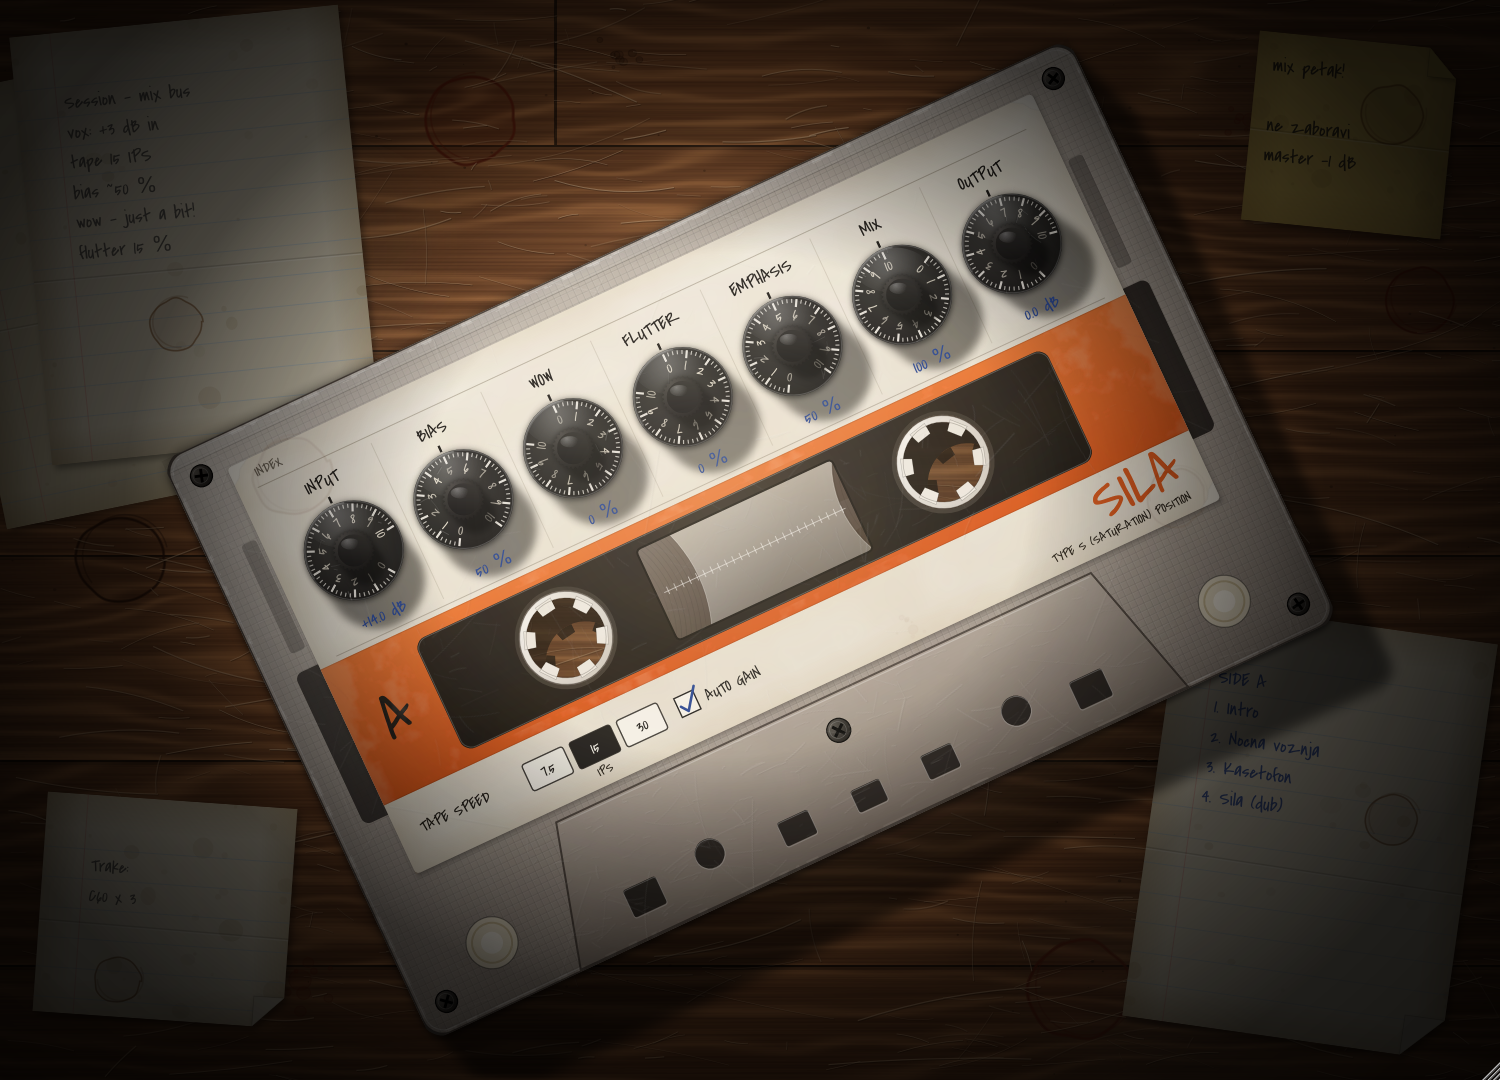
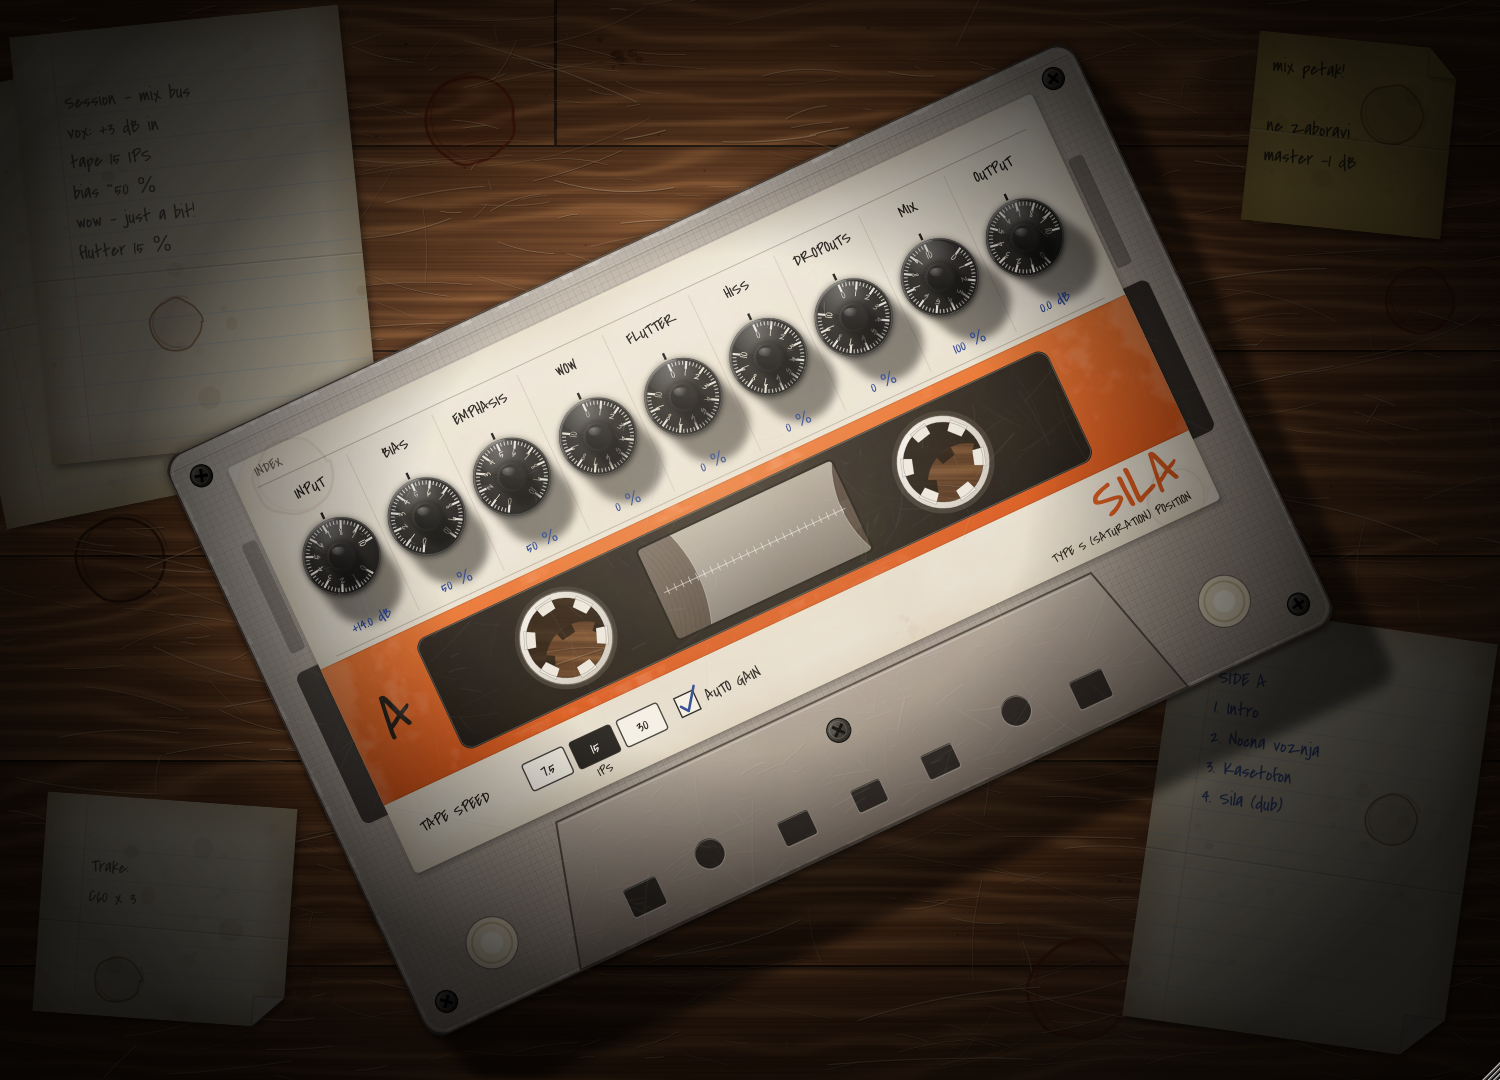
Add HISS and DROPOUTS controls
Hiss: high-passed noise rolled off with tape speed, louder on slower tape,
about -43 dBFS RMS at 100 %. Dropouts: random 20-120 ms level dips of up to
-20 dB with high-frequency loss, more frequent and deeper with the control.
Both default to 0 and leave the signal untouched when off. The index label
now holds nine dials.

Claude-Session: https://claude.ai/code/session_01Eb5cvfZpsXDM7PHUieEaR2

Changed region(s): [[0.184, 0.1528, 0.736, 0.5806], [0.184, 0.4278, 0.2147, 0.4583]]

diff --git a/Source/TapeEngine.cpp b/Source/TapeEngine.cpp
@@ -261,6 +261,8 @@ void TapeEngine::prepare (double newSampleRate, int maxBlockSize, int newNumChan
     mixAmount.reset (sampleRate, smoothing);
     wowDepth.reset (sampleRate, 0.1);
     flutterDepth.reset (sampleRate, 0.1);
+    hissAmount.reset (sampleRate, 0.05);
+    dropoutAmount.reset (sampleRate, 0.05);
     biasSmoothed.reset (sampleRate, 0.05);
     autoGainAmount.reset (sampleRate, smoothing);
 
@@ -282,6 +284,9 @@ void TapeEngine::reset()
         ch.tape.m = hysteresisRestAt (target.bias);
         ch.tape.hPrev = biasAsymmetry (target.bias);
         ch.hfLoss = 0.0;
+        ch.hissHigh = ch.hissPrev = ch.hissLow = 0.0;
+        ch.dropoutGain = ch.dropoutDepth = 1.0;
+        ch.dropoutLow = 0.0;
         std::fill (ch.transport.begin(), ch.transport.end(), 0.0f);
         std::fill (ch.dry.begin(), ch.dry.end(), 0.0f);
         ch.dryWrite = 0;
@@ -300,6 +305,9 @@ void TapeEngine::reset()
     mixAmount.setCurrentAndTargetValue (target.mix);
     wowDepth.setCurrentAndTargetValue (target.wow);
     flutterDepth.setCurrentAndTargetValue (target.flutter);
+    hissAmount.setCurrentAndTargetValue (target.hiss);
+    dropoutAmount.setCurrentAndTargetValue (target.dropouts);
+    dropoutRemaining = 0;
     biasSmoothed.setCurrentAndTargetValue (target.bias);
     autoGainAmount.setCurrentAndTargetValue (target.autoGain ? 1.0f : 0.0f);
 
@@ -323,7 +331,9 @@ void TapeEngine::setSettings (const TapeSettings& s) noexcept
     outputGain.setTargetValue (juce::Decibels::decibelsToGain (target.outputDb));
     mixAmount.setTargetValue (target.mix);
     wowDepth.setTargetValue (target.wow);
-    flutterDepth.setTargetValue (target.flutter);
+    flutterDepth.setTargetValue (juce::jlimit (0.0f, 1.0f, target.flutter));
+    hissAmount.setTargetValue (juce::jlimit (0.0f, 1.0f, s.hiss));
+    dropoutAmount.setTargetValue (juce::jlimit (0.0f, 1.0f, s.dropouts));
     biasSmoothed.setTargetValue (target.bias);
     autoGainAmount.setTargetValue (target.autoGain ? 1.0f : 0.0f);
 }
@@ -499,6 +509,16 @@ void TapeEngine::processChunk (float* const* data, int numCh, int n) noexcept
     const int driftPeriod = juce::jmax (1, (int) (sampleRate * 0.45));
     const double driftCoeff = 1.0 - std::exp (-1.0 / (0.35 * sampleRate));
 
+    // Tape hiss: white noise shaped to the bright "shhh" of tape (high-passed, rolled off
+    // with the tape speed). Slower tape is noisier. Full scale is about -42 dBFS RMS.
+    const double hissSpeedGain = currentSpeed == 0 ? 1.41 : (currentSpeed == 2 ? 0.71 : 1.0);
+    const double hissHp = std::exp (-twoPi * 300.0 / sampleRate);
+    const double hissLp = 1.0 - std::exp (-twoPi * juce::jmin (highCutFrequency (currentSpeed), sampleRate * 0.45) / sampleRate);
+    const double hissScale = 0.0079 * 1.73 * hissSpeedGain;
+
+    // Dropouts: oxide flaws briefly lift the tape off the head, the level dips and the highs go first.
+    const double dropoutFollow = 1.0 - std::exp (-1.0 / (0.006 * sampleRate));
+
     for (int i = 0; i < n; ++i)
     {
         // Transport modulation (shared by both channels: one tape, one capstan).
@@ -526,6 +546,23 @@ void TapeEngine::processChunk (float* const* data, int numCh, int n) noexcept
         const double wetMix = mixAmount.getNextValue();
         const double out = outputGain.getNextValue();
 
+        const double hissAmt = hissAmount.getNextValue();
+        const double hissLevel = hissAmt * hissAmt * hissScale;
+        const double dropAmt = dropoutAmount.getNextValue();
+
+        bool dropping = dropoutRemaining > 0;
+        if (dropping)
+            --dropoutRemaining;
+        else if (dropAmt > 0.0 && noise.nextDouble() < dropAmt * 1.2 / sampleRate)
+        {
+            // Start a dropout: 20-120 ms long, 3-20 dB deep (deeper with more DROPOUTS).
+            dropoutRemaining = (int) ((0.02 + 0.10 * noise.nextDouble()) * sampleRate);
+            const double depthDb = (3.0 + 17.0 * noise.nextDouble()) * std::sqrt (dropAmt);
+            for (int ch = 0; ch < numCh; ++ch)
+                channels[(size_t) ch].dropoutDepth = std::pow (10.0, -depthDb * (0.8 + 0.4 * noise.nextDouble()) / 20.0);
+            dropping = true;
+        }
+
         for (int ch = 0; ch < numCh; ++ch)
         {
             auto& s = channels[(size_t) ch];
@@ -536,7 +573,30 @@ void TapeEngine::processChunk (float* const* data, int numCh, int n) noexcept
             y = s.highCut.process (y);
 
             s.transport[(size_t) transportWrite] = (float) y;
-            const double wet = readDelay (ch, delay) * makeup;
+            double wet = readDelay (ch, delay) * makeup;
+
+            if (hissLevel > 0.0)
+            {
+                const double white = noise.nextDouble() * 2.0 - 1.0;
+                s.hissHigh = hissHp * (s.hissHigh + white - s.hissPrev);
+                s.hissPrev = white;
+                s.hissLow += hissLp * (s.hissHigh - s.hissLow);
+                wet += s.hissLow * hissLevel;
+            }
+
+            const double dropTarget = dropping ? s.dropoutDepth : 1.0;
+            s.dropoutGain += dropoutFollow * (dropTarget - s.dropoutGain);
+            if (s.dropoutGain < 0.9995)
+            {
+                const double fc = 1500.0 + 18500.0 * s.dropoutGain * s.dropoutGain;
+                s.dropoutLow += (1.0 - std::exp (-twoPi * juce::jmin (fc, sampleRate * 0.45) / sampleRate)) * (wet - s.dropoutLow);
+                wet = s.dropoutLow * s.dropoutGain;
+            }
+            else
+            {
+                s.dropoutGain = 1.0;
+                s.dropoutLow = wet;
+            }
 
             // Latency-matched dry signal.
             const double dry = (double) s.dry[(size_t) s.dryWrite];

diff --git a/tests/ProcessorTests.cpp b/tests/ProcessorTests.cpp
@@ -221,6 +221,8 @@ int main (int argc, char** argv)
                 setParam (p, sila::ids::output, 12.0f);
                 setParam (p, sila::ids::autoGain, 0.0f);
                 setParam (p, sila::ids::speed, 0.0f);
+                setParam (p, sila::ids::hiss, 100.0f);
+                setParam (p, sila::ids::dropouts, 100.0f);
                 prepare (p, r, 64, channels);
                 juce::Random rnd (7);
                 // Blocks larger than announced must still work.
@@ -228,6 +230,35 @@ int main (int argc, char** argv)
                 ok &= allFinite (out);
             }
         require (ok, "extreme settings stay finite at 44.1/96/192 kHz, mono and stereo, oversized blocks");
+    }
+
+    {
+        // Hiss: silence in gives tape noise out, at a sensible level, and none when off.
+        SilaAudioProcessor p;
+        setParam (p, sila::ids::hiss, 100.0f);
+        prepare (p, rate, 512);
+        auto out = render (p, 48000, 512, [] (int) { return 0.0f; });
+        const double level = 20.0 * std::log10 (rms (out, 4800, 43200) + 1.0e-12);
+        std::printf ("       hiss at 100 %%: %.1f dBFS RMS\n", level);
+        require (level > -55.0 && level < -35.0, "HISS adds audible but moderate tape noise");
+    }
+
+    {
+        // Dropouts: over 8 s of a steady tone, the level dips several dB at least once.
+        auto minLevelDb = [rate] (float amount)
+        {
+            SilaAudioProcessor p;
+            setParam (p, sila::ids::dropouts, amount);
+            prepare (p, rate, 512);
+            auto out = render (p, (int) rate * 8, 512, sine (1000.0, 0.25, rate));
+            double lowest = 0.0;
+            for (size_t start = 4800; start + 480 < out.size(); start += 480)
+                lowest = std::min (lowest, 20.0 * std::log10 (rms (out, start, 480) / (0.25 / std::sqrt (2.0)) + 1.0e-12));
+            return lowest;
+        };
+        const double none = minLevelDb (0.0f), heavy = minLevelDb (100.0f);
+        std::printf ("       lowest 10 ms level: dropouts 0 %% %.1f dB, 100 %% %.1f dB\n", none, heavy);
+        require (none > -1.0 && heavy < -4.0, "DROPOUTS make the level dip, and never when off");
     }
 
     {
@@ -265,12 +296,12 @@ int main (int argc, char** argv)
             auto& deck = silaEditor->getDeck();
             bool allKnobs = true;
             for (auto* id : { sila::ids::input, sila::ids::bias, sila::ids::wow, sila::ids::flutter,
-                              sila::ids::emphasis, sila::ids::mix, sila::ids::output })
+                              sila::ids::emphasis, sila::ids::hiss, sila::ids::dropouts, sila::ids::mix, sila::ids::output })
             {
                 auto* knob = deck.findKnob (id);
                 allKnobs &= knob != nullptr && knob->isVisible() && knob->getParentComponent() == &deck.getCassette() && knob->getBottom() < 256;
             }
-            require (allKnobs, "all seven knobs sit in the upper label area");
+            require (allKnobs, "all nine knobs sit in the upper label area");
 
             deck.getSpeedButton (0).onClick();
             require (p.getSpeedIndex() == 0 && deck.getSpeedButton (0).getToggleState(), "speed button selects 7.5 IPS");

diff --git a/Source/PluginEditor.cpp b/Source/PluginEditor.cpp
@@ -34,9 +34,11 @@ namespace
     constexpr KnobSpec knobSpecs[] = {
         { ids::input,    "INPUT" },
         { ids::bias,     "BIAS" },
+        { ids::emphasis, "EMPHASIS" },
         { ids::wow,      "WOW" },
         { ids::flutter,  "FLUTTER" },
-        { ids::emphasis, "EMPHASIS" },
+        { ids::hiss,     "HISS" },
+        { ids::dropouts, "DROPOUTS" },
         { ids::mix,      "MIX" },
         { ids::output,   "OUTPUT" },
     };
@@ -50,7 +52,7 @@ namespace
     const juce::Point<float> reelLeft  { 292.0f, 331.0f };
     const juce::Point<float> reelRight { 708.0f, 331.0f };
     constexpr float wellRadius = 52.0f, hubRadius = 46.5f, fullPackRadius = 178.0f;
-    constexpr float knobTop = 72.0f, knobHeight = 176.0f, knobLeft = 76.0f, knobWidth = 121.0f;
+    constexpr float knobTop = 72.0f, knobHeight = 176.0f, knobLeft = 76.0f, knobWidth = 848.0f / 9.0f;
     constexpr float dialSweep = juce::MathConstants<float>::pi * 5.0f / 3.0f; // 300 degrees
 
     //==========================================================================
@@ -649,11 +651,11 @@ void CassetteLookAndFeel::drawRotarySlider (juce::Graphics& g, int x, int y, int
     const float labelH = 30.0f, valueH = 30.0f;
 
     g.setColour (colours::ink);
-    g.setFont (handFont (25.0f));
+    g.setFont (handFont (22.0f));
     g.drawText (slider.getName(), bounds.withHeight (labelH), Justification::centred, false);
 
     g.setColour (colours::penBlue);
-    g.setFont (handFont (24.0f));
+    g.setFont (handFont (21.0f));
     g.drawText (slider.getTextFromValue (slider.getValue()),
                 bounds.withTop (bounds.getBottom() - valueH), Justification::centred, false);
 
@@ -1052,7 +1054,7 @@ void CassetteDeck::paintLabel (juce::Graphics& g)
     g.drawHorizontalLine (64, 76.0f, 924.0f);
     g.drawHorizontalLine (250, 76.0f, 924.0f);
     g.setColour (colours::rule.withAlpha (0.45f));
-    for (int i = 1; i < 7; ++i)
+    for (int i = 1; i < 9; ++i)
         g.drawVerticalLine ((int) (knobLeft + knobWidth * (float) i), 72.0f, 244.0f);
 
     g.setGradientFill (ColourGradient (colours::orange.brighter (0.08f), 0.0f, stripeArea.getY(),

diff --git a/Source/TapeEngine.h b/Source/TapeEngine.h
@@ -19,6 +19,8 @@ struct TapeSettings
     float wow       = 0.0f;   // 0 .. 1
     float flutter   = 0.0f;   // 0 .. 1
     float emphasis  = 0.5f;   // 0 .. 1 pre-/de-emphasis amount
+    float hiss      = 0.0f;   // 0 .. 1 tape noise
+    float dropouts  = 0.0f;   // 0 .. 1 how often and how deep the signal drops out
     float mix       = 1.0f;   // 0 .. 1 dry/wet
     float outputDb  = 0.0f;   // -24 .. +12 dB
     bool  autoGain  = true;   // compensate output for the input drive
@@ -117,7 +119,7 @@ private:
     int currentSpeed = -1;
     double currentEmphasis = -1.0;
 
-    juce::SmoothedValue<float> inputGain, outputGain, mixAmount, wowDepth, flutterDepth;
+    juce::SmoothedValue<float> inputGain, outputGain, mixAmount, wowDepth, flutterDepth, hissAmount, dropoutAmount;
     juce::SmoothedValue<float, juce::ValueSmoothingTypes::Linear> biasSmoothed;
     juce::SmoothedValue<float> autoGainAmount;
 
@@ -130,6 +132,8 @@ private:
         Hysteresis tape;
         double hfLoss = 0.0; // bias-dependent HF loss state at the oversampled rate
         std::vector<float> transport; // wow & flutter delay line
+        double hissHigh = 0.0, hissPrev = 0.0, hissLow = 0.0; // noise shaping
+        double dropoutGain = 1.0, dropoutLow = 0.0, dropoutDepth = 1.0;
         std::vector<float> dry;       // latency-matched dry path
         int dryWrite = 0;
     };
@@ -144,6 +148,8 @@ private:
     double driftState = 0.0, driftTarget = 0.0;
     int driftCounter = 0;
     juce::Random random { 0x51714A };
+    juce::Random noise { 0x7A9E };
+    int dropoutRemaining = 0;
 
     int latencySamples = 0;
     int dryLength = 1;

diff --git a/Source/PluginProcessor.cpp b/Source/PluginProcessor.cpp
@@ -24,6 +24,8 @@ SilaAudioProcessor::SilaAudioProcessor()
     wowParam      = parameters.getRawParameterValue (sila::ids::wow);
     flutterParam  = parameters.getRawParameterValue (sila::ids::flutter);
     emphasisParam = parameters.getRawParameterValue (sila::ids::emphasis);
+    hissParam     = parameters.getRawParameterValue (sila::ids::hiss);
+    dropoutsParam = parameters.getRawParameterValue (sila::ids::dropouts);
     mixParam      = parameters.getRawParameterValue (sila::ids::mix);
     outputParam   = parameters.getRawParameterValue (sila::ids::output);
     autoGainParam = parameters.getRawParameterValue (sila::ids::autoGain);
@@ -53,6 +55,8 @@ juce::AudioProcessorValueTreeState::ParameterLayout SilaAudioProcessor::createPa
     layout.add (percent (sila::ids::wow, "Wow", 0.0f));
     layout.add (percent (sila::ids::flutter, "Flutter", 0.0f));
     layout.add (percent (sila::ids::emphasis, "Emphasis", 50.0f));
+    layout.add (percent (sila::ids::hiss, "Hiss", 0.0f));
+    layout.add (percent (sila::ids::dropouts, "Dropouts", 0.0f));
     layout.add (percent (sila::ids::mix, "Mix", 100.0f));
 
     layout.add (std::make_unique<AudioParameterFloat> (
@@ -81,6 +85,8 @@ sila::TapeSettings SilaAudioProcessor::readSettings() const noexcept
     s.wow      = wowParam->load() * 0.01f;
     s.flutter  = flutterParam->load() * 0.01f;
     s.emphasis = emphasisParam->load() * 0.01f;
+    s.hiss     = hissParam->load() * 0.01f;
+    s.dropouts = dropoutsParam->load() * 0.01f;
     s.mix      = mixParam->load() * 0.01f;
     s.outputDb = outputParam->load();
     s.autoGain = autoGainParam->load() > 0.5f;

diff --git a/Source/PluginProcessor.h b/Source/PluginProcessor.h
@@ -11,6 +11,8 @@ namespace sila::ids
     inline constexpr const char* wow      = "wow";
     inline constexpr const char* flutter  = "flutter";
     inline constexpr const char* emphasis = "emphasis";
+    inline constexpr const char* hiss     = "hiss";
+    inline constexpr const char* dropouts = "dropouts";
     inline constexpr const char* mix      = "mix";
     inline constexpr const char* output   = "output";
     inline constexpr const char* autoGain = "autogain";
@@ -66,6 +68,8 @@ private:
     std::atomic<float>* wowParam = nullptr;
     std::atomic<float>* flutterParam = nullptr;
     std::atomic<float>* emphasisParam = nullptr;
+    std::atomic<float>* hissParam = nullptr;
+    std::atomic<float>* dropoutsParam = nullptr;
     std::atomic<float>* mixParam = nullptr;
     std::atomic<float>* outputParam = nullptr;
     std::atomic<float>* autoGainParam = nullptr;

diff --git a/Source/PluginEditor.h b/Source/PluginEditor.h
@@ -101,7 +101,7 @@ private:
     SilaAudioProcessor& processor;
     CassetteLookAndFeel lookAndFeel;
 
-    std::array<Knob, 7> knobs;
+    std::array<Knob, 9> knobs;
     std::array<juce::TextButton, 3> speedButtons;
     juce::ToggleButton autoGain { "AUTO GAIN" };
     std::unique_ptr<juce::AudioProcessorValueTreeState::ButtonAttachment> autoGainAttachment;

diff --git a/README.md b/README.md
@@ -20,6 +20,8 @@ od stolne lampe gore lijevo: najsvjetlije je na sredini kasete, prema rubovima s
 | **WOW** | 0 … 100 % | Sporo titranje visine tona (~0,55 Hz + nasumični drift). |
 | **FLUTTER** | 0 … 100 % | Brzo titranje (6,3 Hz + 11,7 Hz). |
 | **EMPHASIS** | 0 … 100 % | Pre-/de-emphasis (0–12 dB). Visoke frekvencije ranije ulaze u zasićenje, a ukupni odziv ostaje ravan. |
+| **HISS** | 0 … 100 % | Šum trake (svijetli "šššš"). Sporija traka šumi više; na 100 % oko −43 dBFS. Čuje se i u tišini, kao prava traka. |
+| **DROPOUTS** | 0 … 100 % | Kratka ispadanja signala (20–120 ms, do −20 dB) kao na izlizanoj traci; tijekom ispadanja prvo nestaju visoke. Više = češće i dublje. |
 | **MIX** | 0 … 100 % | Dry/wet. Dry je poravnat s latencijom, pa nema faznih problema. |
 | **OUTPUT** | −24 … +12 dB | Izlazna razina. |
 | **TAPE SPEED** | 7.5 / 15 / 30 IPS | 7.5: toplije, veći head bump (~55 Hz), visoke padaju od ~11 kHz, više wow/fluttera. 30: čišće i otvorenije. |
